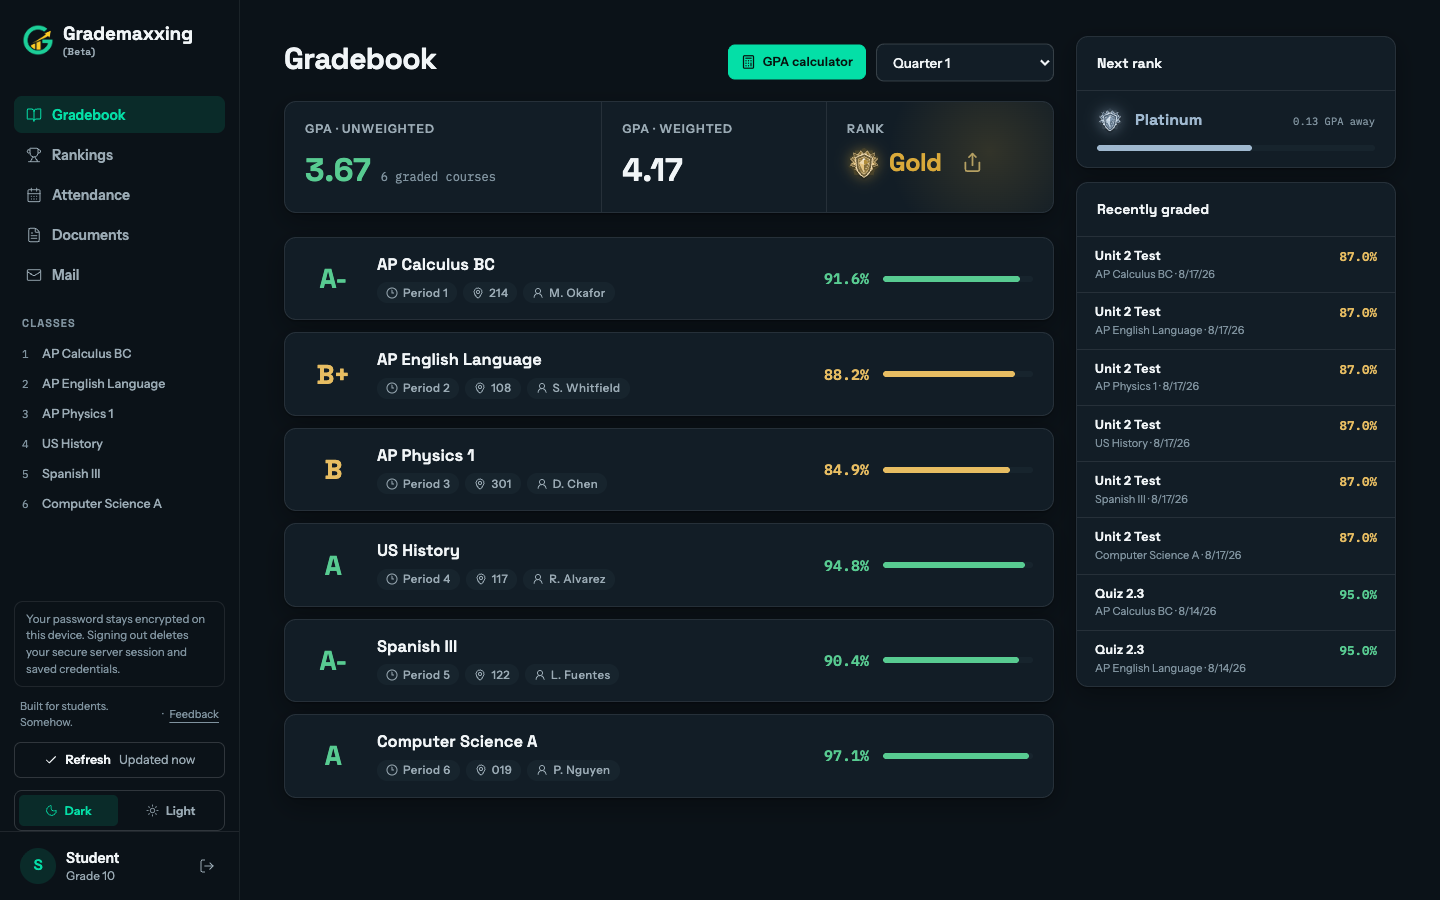
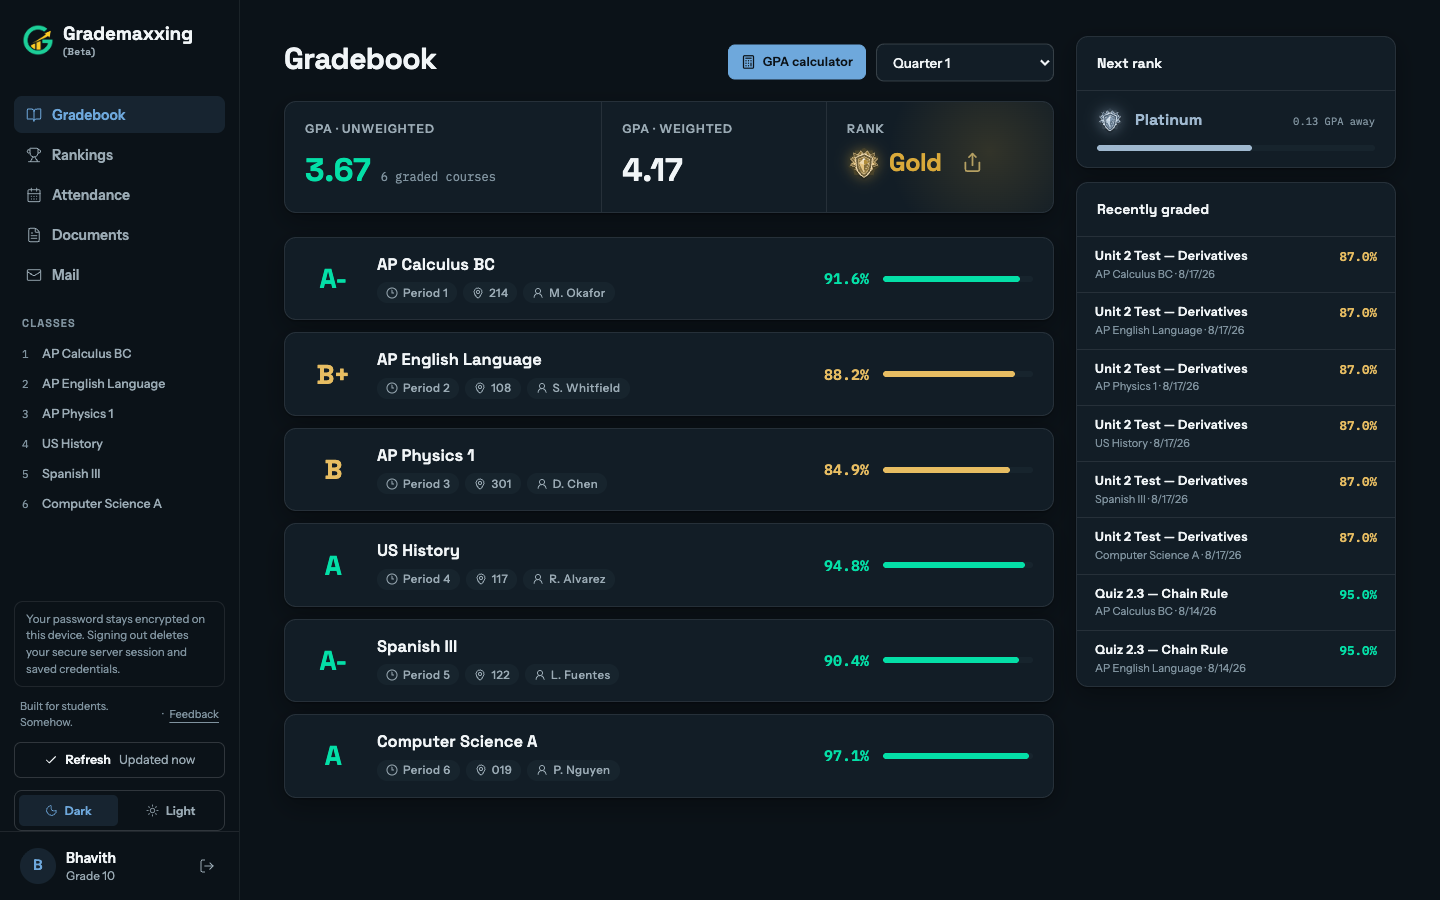
Use blue as primary dark theme color

diff --git a/src/lib/components/landing/landing.css b/src/lib/components/landing/landing.css
@@ -13,8 +13,8 @@ body {
 	--faint: #7f929e;
 	--line: rgba(241, 245, 247, 0.09);
 	--line2: rgba(241, 245, 247, 0.16);
-	--accent: #04dfa7;
-	--accent-soft: rgba(4, 223, 167, 0.12);
+	--accent: #6ea8dc;
+	--accent-soft: rgba(110, 168, 220, 0.12);
 	min-height: 100vh;
 	overflow-x: hidden;
 	isolation: isolate;
@@ -23,7 +23,7 @@ body {
 	font-size: 14.5px;
 	line-height: 1.5;
 	background:
-		radial-gradient(900px 520px at 85% -10%, rgba(4, 223, 167, 0.1), transparent 62%),
+		radial-gradient(900px 520px at 85% -10%, rgba(110, 168, 220, 0.1), transparent 62%),
 		radial-gradient(720px 440px at -12% 14%, rgba(39, 86, 136, 0.16), transparent 60%), var(--bg);
 }
 .landing-nav {
@@ -124,11 +124,11 @@ body {
 	border-color: var(--accent);
 	background: var(--accent);
 	color: #07130f;
-	box-shadow: 0 8px 24px -14px rgba(4, 223, 167, 0.72);
+	box-shadow: 0 8px 24px -14px rgba(110, 168, 220, 0.72);
 }
 .button-primary:hover {
 	filter: brightness(1.08);
-	box-shadow: 0 12px 28px -14px rgba(4, 223, 167, 0.78);
+	box-shadow: 0 12px 28px -14px rgba(110, 168, 220, 0.78);
 }
 .button-ghost {
 	background: transparent;
@@ -152,7 +152,7 @@ body {
 	width: min(760px, 92vw);
 	height: 430px;
 	transform: translateX(-50%);
-	background: radial-gradient(circle, rgba(4, 223, 167, 0.08), transparent 68%);
+	background: radial-gradient(circle, rgba(110, 168, 220, 0.08), transparent 68%);
 	content: '';
 	pointer-events: none;
 }
@@ -190,7 +190,7 @@ body {
 	margin-top: 16px;
 	border: 1px solid var(--accent);
 	border-radius: 999px;
-	background: rgba(4, 223, 167, 0.055);
+	background: rgba(110, 168, 220, 0.055);
 	color: var(--accent);
 	padding: 3px 9px;
 	font-size: 11.5px;
@@ -301,7 +301,7 @@ body {
 }
 .feature-card:hover {
 	transform: translateY(-3px);
-	border-color: rgba(4, 223, 167, 0.65);
+	border-color: rgba(110, 168, 220, 0.65);
 	box-shadow:
 		0 2px 4px rgba(0, 0, 0, 0.4),
 		0 14px 30px rgba(0, 0, 0, 0.34);
@@ -444,7 +444,7 @@ body {
 	gap: 12px;
 	justify-content: center;
 	padding: 24px;
-	background: radial-gradient(circle at 50% 0%, rgba(4, 223, 167, 0.1), transparent 68%), #0e171e;
+	background: radial-gradient(circle at 50% 0%, rgba(110, 168, 220, 0.1), transparent 68%), #0e171e;
 }
 .calc-top,
 .impact,
@@ -487,7 +487,7 @@ body {
 	font-size: 11px;
 }
 .impact strong {
-	color: #58cb91;
+	color: #04dfa7;
 }
 .record-visual {
 	display: flex;
@@ -559,16 +559,16 @@ body {
 	margin: 88px auto 0;
 	border: 1px solid var(--line);
 	border-radius: 18px;
-	background: linear-gradient(135deg, rgba(4, 223, 167, 0.08), transparent 55%), var(--panel);
+	background: linear-gradient(135deg, rgba(110, 168, 220, 0.08), transparent 55%), var(--panel);
 	padding: 28px 30px;
-	box-shadow: 0 24px 60px -38px rgba(4, 223, 167, 0.62);
+	box-shadow: 0 24px 60px -38px rgba(110, 168, 220, 0.62);
 }
 .privacy-icon {
 	display: grid;
 	width: 58px;
 	height: 58px;
 	place-items: center;
-	border: 1px solid rgba(4, 223, 167, 0.32);
+	border: 1px solid rgba(110, 168, 220, 0.32);
 	border-radius: 15px;
 	background: var(--accent-soft);
 	color: var(--accent);
@@ -599,7 +599,7 @@ body {
 }
 .final-cta img {
 	margin-bottom: 22px;
-	filter: drop-shadow(0 14px 30px rgba(4, 223, 167, 0.2));
+	filter: drop-shadow(0 14px 30px rgba(110, 168, 220, 0.2));
 }
 .final-cta h2 {
 	font-size: 32px;

diff --git a/src/app.css b/src/app.css
@@ -78,51 +78,51 @@
 	--card-foreground: #f1f5f7;
 	--popover: #121d26;
 	--popover-foreground: #f1f5f7;
-	--primary: #04dfa7;
-	--primary-foreground: #07130f;
+	--primary: #6ea8dc;
+	--primary-foreground: #0b1218;
 	--secondary: #17242d;
 	--secondary-foreground: #f1f5f7;
 	--muted: #17242d;
 	--muted-foreground: #9aaab4;
-	--accent: rgb(4 223 167 / 12%);
-	--accent-foreground: #04dfa7;
+	--accent: rgb(110 168 220 / 12%);
+	--accent-foreground: #6ea8dc;
 	--destructive: #f08078;
 	--destructive-soft: rgb(240 128 120 / 12%);
-	--success: #58cb91;
-	--success-soft: rgb(88 203 145 / 12%);
+	--success: #04dfa7;
+	--success-soft: rgb(4 223 167 / 12%);
 	--warning: #e7bd62;
 	--warning-soft: rgb(231 189 98 / 12%);
 	--caution: #f08078;
 	--caution-soft: rgb(240 128 120 / 12%);
 	--border: rgb(241 245 247 / 9%);
 	--input: rgb(241 245 247 / 16%);
-	--ring: #04dfa7;
-	--chart-1: #04dfa7;
-	--chart-2: #6ea8dc;
+	--ring: #6ea8dc;
+	--chart-1: #6ea8dc;
+	--chart-2: #04dfa7;
 	--chart-3: #e7bd62;
 	--chart-4: #65cbd2;
 	--chart-5: #f08078;
 	--sidebar: #0b1218;
 	--sidebar-foreground: #f1f5f7;
-	--sidebar-primary: #04dfa7;
-	--sidebar-primary-foreground: #07130f;
-	--sidebar-accent: rgb(4 223 167 / 12%);
-	--sidebar-accent-foreground: #04dfa7;
+	--sidebar-primary: #6ea8dc;
+	--sidebar-primary-foreground: #0b1218;
+	--sidebar-accent: rgb(110 168 220 / 12%);
+	--sidebar-accent-foreground: #6ea8dc;
 	--sidebar-border: rgb(241 245 247 / 9%);
-	--sidebar-ring: #04dfa7;
+	--sidebar-ring: #6ea8dc;
 	--tertiary-foreground: #7f929e;
 	--surface-raised: #121d26;
 	--surface-sunken: #070d12;
 	--link: #6ea8dc;
-	--focus: #04dfa7;
+	--focus: #6ea8dc;
 	--disabled: #7f929e;
 	--skeleton: #17242d;
 	--overlay: rgb(0 0 0 / 58%);
 	--stale: #e7bd62;
 	--simulation: #c2a7e8;
 	--official: #f1f5f7;
-	--grade-strong: #58cb91;
-	--grade-strong-soft: rgb(88 203 145 / 12%);
+	--grade-strong: #04dfa7;
+	--grade-strong-soft: rgb(4 223 167 / 12%);
 	--grade-watch: #e7bd62;
 	--grade-watch-soft: rgb(231 189 98 / 12%);
 	--grade-risk: #f08078;
@@ -131,9 +131,9 @@
 	--grade-neutral-soft: #17242d;
 	--grade-extra: #c2a7e8;
 	--grade-extra-soft: rgb(194 167 232 / 14%);
-	--chart: #04dfa7;
+	--chart: #6ea8dc;
 	--chart-error: #f08078;
-	--chart-bg: #155947;
+	--chart-bg: #234a68;
 	--chart-bg-error: #6f3b39;
 }
 

diff --git a/src/routes/(authed)/grades/+page.svelte b/src/routes/(authed)/grades/+page.svelte
@@ -157,7 +157,7 @@
 		const rankName = rank.current.name.replaceAll('&', '&amp;').replaceAll('<', '&lt;');
 		const appName = brand.replaceAll('&', '&amp;').replaceAll('<', '&lt;');
 		const rankLabel = rank.provisional ? 'Your provisional GPA rank is' : 'Your GPA rank is';
-		const svg = `<svg xmlns="http://www.w3.org/2000/svg" width="1080" height="1080" viewBox="0 0 1080 1080"><rect width="1080" height="1080" rx="72" fill="#121d26"/><path d="M0 760 Q270 680 540 760 T1080 760 V1080 H0Z" fill="#17342f"/><text x="80" y="120" fill="#f1f5f7" font-family="Arial,sans-serif" font-size="48" font-weight="700">${appName}</text><path d="M540 250 675 340 630 560 540 650 450 560 405 340Z" fill="${color}" stroke="#f1f5f7" stroke-width="12"/><text x="540" y="780" text-anchor="middle" fill="#9aaab4" font-family="Arial,sans-serif" font-size="40">${rankLabel}</text><text x="540" y="880" text-anchor="middle" fill="${color}" font-family="Arial,sans-serif" font-size="96" font-weight="700">${rankName}</text><text x="540" y="975" text-anchor="middle" fill="#04dfa7" font-family="monospace" font-size="34">What’s your rank?</text></svg>`;
+		const svg = `<svg xmlns="http://www.w3.org/2000/svg" width="1080" height="1080" viewBox="0 0 1080 1080"><rect width="1080" height="1080" rx="72" fill="#121d26"/><path d="M0 760 Q270 680 540 760 T1080 760 V1080 H0Z" fill="#172a3a"/><text x="80" y="120" fill="#f1f5f7" font-family="Arial,sans-serif" font-size="48" font-weight="700">${appName}</text><path d="M540 250 675 340 630 560 540 650 450 560 405 340Z" fill="${color}" stroke="#f1f5f7" stroke-width="12"/><text x="540" y="780" text-anchor="middle" fill="#9aaab4" font-family="Arial,sans-serif" font-size="40">${rankLabel}</text><text x="540" y="880" text-anchor="middle" fill="${color}" font-family="Arial,sans-serif" font-size="96" font-weight="700">${rankName}</text><text x="540" y="975" text-anchor="middle" fill="#6ea8dc" font-family="monospace" font-size="34">What’s your rank?</text></svg>`;
 		const url = URL.createObjectURL(new Blob([svg], { type: 'image/svg+xml' }));
 		const anchor = document.createElement('a');
 		anchor.href = url;

diff --git a/tests/e2e/sidebar.spec.ts b/tests/e2e/sidebar.spec.ts
@@ -135,8 +135,8 @@ test('desktop sidebar matches the 240px reference geometry and visual tokens', a
 
 	const active = page.getByTestId('sidebar-nav-documents');
 	await expect(active).toHaveAttribute('aria-current', 'page');
-	await expect(active).toHaveCSS('color', 'rgb(4, 223, 167)');
-	await expect(active).toHaveCSS('background-color', 'rgba(4, 223, 167, 0.12)');
+	await expect(active).toHaveCSS('color', 'rgb(110, 168, 220)');
+	await expect(active).toHaveCSS('background-color', 'rgba(110, 168, 220, 0.12)');
 	await expect(page.getByTestId('sidebar-nav-grades')).toHaveCSS('color', 'rgb(154, 170, 180)');
 
 	const classes = await boundingBox(page, 'sidebar-classes');
@@ -225,8 +225,8 @@ test('hover, keyboard focus, active-course, and light-mode states remain legible
 	const gradebook = page.getByTestId('sidebar-nav-grades');
 	await expect(gradebook).toHaveCSS('background-color', 'rgba(0, 0, 0, 0)');
 	await gradebook.hover();
-	await expect(gradebook).toHaveCSS('background-color', 'rgba(4, 223, 167, 0.12)');
-	await expect(gradebook).toHaveCSS('color', 'rgb(4, 223, 167)');
+	await expect(gradebook).toHaveCSS('background-color', 'rgba(110, 168, 220, 0.12)');
+	await expect(gradebook).toHaveCSS('color', 'rgb(110, 168, 220)');
 
 	await page.mouse.move(800, 500);
 	await page.keyboard.press('Tab');
@@ -243,10 +243,10 @@ test('hover, keyboard focus, active-course, and light-mode states remain legible
 	await expect(page.getByTestId('sidebar-nav-grades')).not.toHaveAttribute('aria-current', 'page');
 	await expect(page.getByTestId('sidebar-nav-grades')).toHaveCSS(
 		'background-color',
-		'rgba(4, 223, 167, 0.12)'
+		'rgba(110, 168, 220, 0.12)'
 	);
-	await expect(activeCourse).toHaveCSS('background-color', 'rgba(4, 223, 167, 0.12)');
-	await expect(activeCourse).toHaveCSS('color', 'rgb(4, 223, 167)');
+	await expect(activeCourse).toHaveCSS('background-color', 'rgba(110, 168, 220, 0.12)');
+	await expect(activeCourse).toHaveCSS('color', 'rgb(110, 168, 220)');
 
 	await page.getByRole('button', { name: 'Light', exact: true }).click();
 	await expect(page.locator('html')).not.toHaveClass(/dark/);

diff --git a/src/lib/components/auth/PostLoginLoadingScreen.svelte b/src/lib/components/auth/PostLoginLoadingScreen.svelte
@@ -42,7 +42,7 @@
 		place-items: center;
 		overflow: hidden;
 		background:
-			radial-gradient(720px 460px at 50% 48%, rgba(4, 223, 167, 0.04), transparent 70%),
+			radial-gradient(720px 460px at 50% 48%, rgba(110, 168, 220, 0.04), transparent 70%),
 			radial-gradient(980px 620px at 82% -18%, rgba(39, 86, 136, 0.3), transparent 65%),
 			linear-gradient(145deg, #080f14, #0b1218 58%, #070d12);
 		color: #f1f5f7;
@@ -59,7 +59,7 @@
 		background: repeating-radial-gradient(
 			ellipse at 52% 48%,
 			transparent 0 92px,
-			rgba(4, 223, 167, 0.032) 112px 142px,
+			rgba(110, 168, 220, 0.032) 112px 142px,
 			transparent 166px 230px
 		);
 		filter: blur(12px);
@@ -102,8 +102,8 @@
 		width: 10px;
 		height: 10px;
 		border-radius: 999px;
-		background: #04dfa7;
-		box-shadow: 0 0 12px rgba(4, 223, 167, 0.2);
+		background: #6ea8dc;
+		box-shadow: 0 0 12px rgba(110, 168, 220, 0.2);
 		animation: loading-pulse 1.15s ease-in-out infinite;
 	}
 	.loading-dots span:nth-child(2) {
@@ -148,7 +148,7 @@
 		color: #c7d3d9;
 	}
 	.loading-steps li.complete {
-		color: #58cb91;
+		color: #04dfa7;
 	}
 	.loading-steps li span {
 		display: grid;
@@ -161,11 +161,11 @@
 		font-size: 10px;
 	}
 	.loading-steps li.active span {
-		border-color: #04dfa7;
-		color: #04dfa7;
+		border-color: #6ea8dc;
+		color: #6ea8dc;
 	}
 	.loading-steps li.complete span {
-		border-color: #58cb91;
+		border-color: #04dfa7;
 	}
 	.sr-only {
 		position: absolute;

diff --git a/src/tests/theme-contract.test.ts b/src/tests/theme-contract.test.ts
@@ -61,15 +61,15 @@ test('brand, status, and grade semantics remain visually distinct', () => {
 
 	expect(darkBlock).toContain('--background: #0b1218;');
 	expect(darkBlock).toContain('--card: #121d26;');
-	expect(darkBlock).toContain('--primary: #04dfa7;');
-	expect(darkBlock).toContain('--success: #58cb91;');
+	expect(darkBlock).toContain('--primary: #6ea8dc;');
+	expect(darkBlock).toContain('--success: #04dfa7;');
 	expect(darkBlock).toContain('--warning: #e7bd62;');
 	expect(darkBlock).toContain('--destructive: #f08078;');
-	expect(darkBlock).toContain('--grade-strong: #58cb91;');
-	expect(darkBlock).toContain('--chart: #04dfa7;');
+	expect(darkBlock).toContain('--grade-strong: #04dfa7;');
+	expect(darkBlock).toContain('--chart: #6ea8dc;');
 
 	expect(rootBlock).not.toContain('--success: #0a73b2;');
-	expect(darkBlock).not.toContain('--success: #04dfa7;');
+	expect(darkBlock).not.toContain('--success: #6ea8dc;');
 });
 
 test('named badge colors are not collapsed into the brand palette', () => {

diff --git a/src/lib/components/auth/AuthShell.svelte b/src/lib/components/auth/AuthShell.svelte
@@ -55,7 +55,7 @@
 	{/if}
 	<main
 		class="bg-background flex min-h-screen items-start justify-center overflow-y-auto px-4 py-6 sm:px-8 lg:items-center lg:px-10 lg:py-0"
-		style="background-image: radial-gradient(900px 520px at 85% -10%, rgba(4, 223, 167, 0.1), transparent 62%), radial-gradient(720px 440px at -12% 22%, rgba(39, 86, 136, 0.16), transparent 60%);"
+		style="background-image: radial-gradient(900px 520px at 85% -10%, rgba(110, 168, 220, 0.1), transparent 62%), radial-gradient(720px 440px at -12% 22%, rgba(39, 86, 136, 0.16), transparent 60%);"
 	>
 		{@render children()}
 	</main>

diff --git a/tests/e2e/theme.spec.ts b/tests/e2e/theme.spec.ts
@@ -50,11 +50,11 @@ test('the complete semantic palette resolves in light and dark modes', async ({ 
 	});
 	expect(dark).toMatchObject({
 		'--background': '#0b1218',
-		'--primary': '#04dfa7',
-		'--success': '#58cb91',
+		'--primary': '#6ea8dc',
+		'--success': '#04dfa7',
 		'--warning': '#e7bd62',
 		'--destructive': '#f08078',
-		'--grade-strong': '#58cb91'
+		'--grade-strong': '#04dfa7'
 	});
 	expect(light['--primary']).not.toBe(light['--success']);
 	expect(dark['--primary']).not.toBe(dark['--success']);

diff --git a/src/lib/components/auth/DistrictCombobox.svelte b/src/lib/components/auth/DistrictCombobox.svelte
@@ -128,7 +128,7 @@
 	>
 	{#if !editing && selectedDistrict}
 		<div
-			class="flex h-12 items-center gap-2.5 rounded-[0.625rem] border border-[#04dfa7] bg-[#11342c] px-3.5 py-3 text-[0.90625rem] leading-[1.5] font-bold text-[#04dfa7]"
+			class="flex h-12 items-center gap-2.5 rounded-[0.625rem] border border-[#6ea8dc] bg-[#172a3a] px-3.5 py-3 text-[0.90625rem] leading-[1.5] font-bold text-[#6ea8dc]"
 		>
 			<span class="min-w-0 flex-1 truncate">
 				{selectedDistrict.name}

diff --git a/src/routes/+page.svelte b/src/routes/+page.svelte
@@ -130,9 +130,9 @@
 						<svg viewBox="0 0 300 120" preserveAspectRatio="none">
 							<defs
 								><linearGradient id="trend-fill" x1="0" y1="0" x2="0" y2="1"
-									><stop offset="0" stop-color="#04dfa7" stop-opacity="0.24" /><stop
+									><stop offset="0" stop-color="#6ea8dc" stop-opacity="0.24" /><stop
 										offset="1"
-										stop-color="#04dfa7"
+										stop-color="#6ea8dc"
 										stop-opacity="0"
 									/></linearGradient
 								></defs

diff --git a/src/lib/grades/rank.ts b/src/lib/grades/rank.ts
@@ -7,7 +7,7 @@ export type GpaRank = {
 };
 
 export const GPA_RANKS: readonly GpaRank[] = [
-	{ min: 0, name: 'Rising', color: '#58cb91' },
+	{ min: 0, name: 'Rising', color: '#04dfa7' },
 	{ min: 2.5, name: 'Bronze', color: '#c08552' },
 	{ min: 3.1, name: 'Silver', color: '#98a6b3' },
 	{ min: 3.5, name: 'Gold', color: '#d9a93a' },
